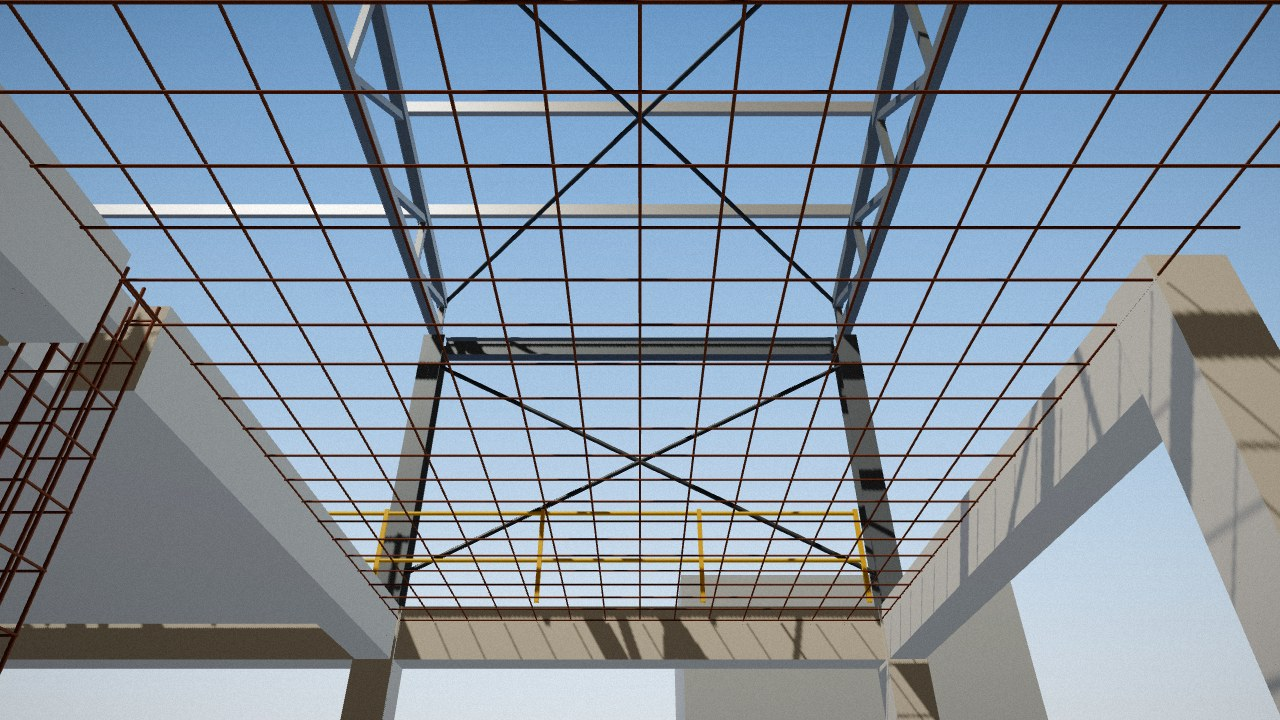
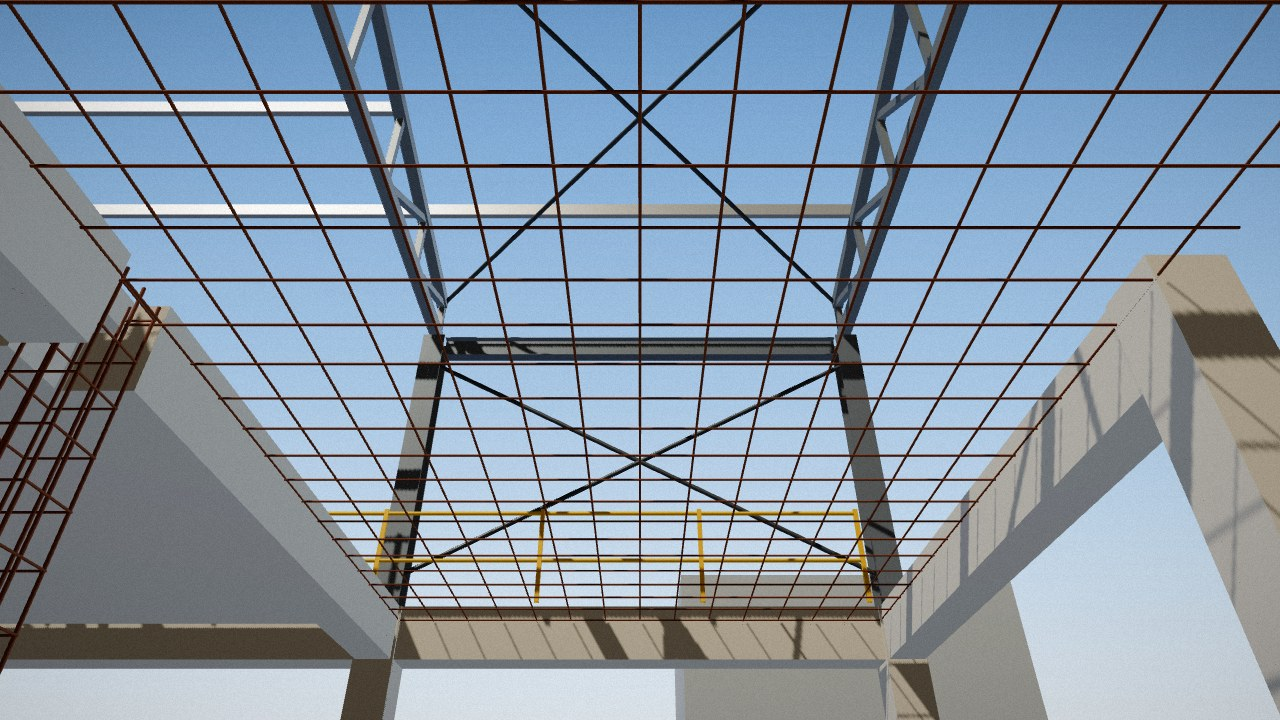
fix: Gemini check review - every planted defect gets a mark, fairer marks, railing severity (#103)
- Virtual demo: three planted defects were never numbered for Gemini. The QR stands sit on grid lines, so a
  purlin in line with the stand hid behind a slab-mat bar (about 4 px wide in the ID buffer) and Truss T3
  vertical 7 fell under the visibility threshold. Swapped for members the camera sees: Truss T3 diagonal 6 and
  Purlin P4 B-C at P3, Purlin P6 C-D at P4. Measured in the check's ID buffer: all 10 planted defects are
  marked at P1-P4 at 1180x820, 1440x900, 820x1180 and 390x844.
- Marks: element types take turns within a priority tier, each type's elements by size weighted towards the
  centre of the frame, so thin members and guardrails get checked in views full of big beams. Railings rank
  with structure; slabs and footings move after it.
- Scorecard: a shifted column counts as found when Gemini flags its moved rebar cage.
- Severity: a missing or misplaced guardrail (IfcRailing) is high, a fall hazard.
- Prompt: the QR sheet and its stand are not elements to check or unexpected objects.
- Sample photos re-rendered for the new defect list.

diff --git a/web/src/check/marks.ts b/web/src/check/marks.ts
@@ -4,15 +4,32 @@ import type { VisibleElement } from '../scene/elements'
 
 export const MAX_MARKS = 25
 
-const STRUCTURE = new Set(['IfcColumn', 'IfcBeam', 'IfcSlab', 'IfcFooting', 'IfcMember', 'IfcPile', 'IfcPlate', 'IfcWall', 'IfcWallStandardCase'])
+// Guardrails sit with structure: a missing one is a fall hazard.
+const STRUCTURE = new Set(['IfcColumn', 'IfcBeam', 'IfcMember', 'IfcPile', 'IfcPlate', 'IfcWall', 'IfcWallStandardCase', 'IfcRailing'])
+// Slabs and footings are big flat surfaces (a flush pad, a soffit) that rarely show a deviation in a photo: after structure.
 const OPENINGS_SERVICES = new Set(['IfcDoor', 'IfcWindow', 'IfcPipeSegment', 'IfcPipeFitting', 'IfcDuctSegment', 'IfcDuctFitting',
-  'IfcFlowSegment', 'IfcFlowFitting', 'IfcCableCarrierSegment', 'IfcOpeningElement'])
+  'IfcFlowSegment', 'IfcFlowFitting', 'IfcCableCarrierSegment', 'IfcOpeningElement', 'IfcSlab', 'IfcFooting'])
 
-/** 0 structure, 1 openings and services, 2 everything else. */
+/** 0 structure and guardrails, 1 openings, services, slabs and footings, 2 everything else. */
 export function classPriority(ifcClass: string): number {
   if (STRUCTURE.has(ifcClass)) return 0
   if (OPENINGS_SERVICES.has(ifcClass)) return 1
   return 2
+}
+
+/**
+ * How much an element counts for a mark: its size on screen, weighted towards the middle of the frame, where the
+ * person aimed. An element at the centre counts about 1.7 times its size, one in a corner about 0.1 times.
+ */
+export function markWeight(v: Pick<VisibleElement, 'pixels' | 'box'>): number {
+  const [y0, x0, y1, x1] = v.box
+  const off = Math.hypot((x0 + x1) / 2 - 500, (y0 + y1) / 2 - 500) / 707 // 0 at the centre, 1 in a corner
+  return v.pixels * (0.3 + Math.max(0, 1 - off)) ** 2
+}
+
+/** Element type for taking turns: class plus predefined type, so truss members, purlins and braces are separate. */
+function typeKey(el: Element): string {
+  return `${el.ifc_class}|${String(el.props?.PredefinedType ?? '')}`
 }
 
 function mm(v: unknown): number | null {
@@ -58,7 +75,11 @@ export function keyDims(el: Element): string {
   return parts.join(', ').slice(0, 80)
 }
 
-/** Visible elements -> numbered marks: known elements only, one per GUID, by class priority then size. */
+/**
+ * Visible elements -> numbered marks: known elements only, one per GUID. By class priority, and within a priority
+ * the element types take turns, each type's elements in order of markWeight (size, towards the centre of the frame),
+ * so thin members and guardrails where the person aimed get checked in a view full of big beams.
+ */
 export function selectMarks(visible: readonly VisibleElement[], indexToGuid: readonly string[], elements: ReadonlyMap<string, Element>,
   max = MAX_MARKS): MarkedElement[] {
   const best = new Map<string, VisibleElement>()
@@ -68,11 +89,24 @@ export function selectMarks(visible: readonly VisibleElement[], indexToGuid: rea
     const prev = best.get(guid)
     if (!prev || v.pixels > prev.pixels) best.set(guid, v)
   }
-  return [...best.entries()]
-    .map(([guid, v]) => ({ guid, v, el: elements.get(guid)! }))
-    .sort((a, b) => classPriority(a.el.ifc_class) - classPriority(b.el.ifc_class) || b.v.pixels - a.v.pixels)
-    .slice(0, max)
-    .map(({ guid, v, el }, i) => ({ mark: i + 1, guid, ifc_class: el.ifc_class, name: el.name, box: v.box, key_dims: keyDims(el) }))
+  const tiers = new Map<number, Map<string, { guid: string; v: VisibleElement; el: Element }[]>>()
+  for (const [guid, v] of best) {
+    const el = elements.get(guid)!
+    const tier = tiers.get(classPriority(el.ifc_class)) ?? new Map()
+    tiers.set(classPriority(el.ifc_class), tier)
+    const group = tier.get(typeKey(el)) ?? []
+    tier.set(typeKey(el), group)
+    group.push({ guid, v, el })
+  }
+  const picked: { guid: string; v: VisibleElement; el: Element }[] = []
+  for (const p of [...tiers.keys()].sort((a, b) => a - b)) {
+    const groups = [...tiers.get(p)!.values()].map((g) => g.sort((a, b) => markWeight(b.v) - markWeight(a.v)))
+    groups.sort((a, b) => markWeight(b[0].v) - markWeight(a[0].v)) // the type with the weightiest element starts each round
+    for (let round = 0; picked.length < max && groups.some((g) => g.length > round); round++) {
+      for (const g of groups) if (round < g.length && picked.length < max) picked.push(g[round])
+    }
+  }
+  return picked.map(({ guid, v, el }, i) => ({ mark: i + 1, guid, ifc_class: el.ifc_class, name: el.name, box: v.box, key_dims: keyDims(el) }))
 }
 
 /** Each mark's centre as a fraction of the frame (0..1), from the ID-buffer anchors (a pixel of the element itself). */

diff --git a/web/src/check/marks.test.ts b/web/src/check/marks.test.ts
@@ -1,7 +1,7 @@
 import { describe, expect, it } from 'vitest'
 import type { Element } from '../api/types'
 import type { VisibleElement } from '../scene/elements'
-import { classPriority, keyDims, markCentres, MAX_MARKS, selectMarks } from './marks'
+import { classPriority, keyDims, markCentres, markWeight, MAX_MARKS, selectMarks } from './marks'
 
 function el(guid: string, ifc_class: string, props: Record<string, unknown> = {}, bbox: Element['bbox_m'] = [[0, 0, 0], [1, 0.1, 2]]): Element {
   return { guid, ifc_class, name: `${ifc_class} ${guid}`, storey: 'L1', bbox_m: bbox, load_bearing: null, props }
@@ -11,8 +11,10 @@ function vis(index: number, pixels: number, cx = 10, cy = 20, anchor = { x: cx, 
 }
 
 describe('marks', () => {
-  it('ranks structure, then openings and services, then the rest', () => {
+  it('ranks structure and guardrails, then openings, services, slabs and footings, then the rest', () => {
     expect(classPriority('IfcColumn')).toBe(0)
+    expect(classPriority('IfcRailing')).toBe(0)
+    expect(classPriority('IfcFooting')).toBe(1)
     expect(classPriority('IfcWall')).toBe(0)
     expect(classPriority('IfcPipeSegment')).toBe(1)
     expect(classPriority('IfcFurniture')).toBe(2)
@@ -31,6 +33,26 @@ describe('marks', () => {
     const marks = selectMarks([vis(0, 900), vis(1, 50), vis(2, 10), vis(3, 300), vis(4, 999), vis(5, 400)], indexToGuid, elements)
     expect(marks.map((m) => [m.mark, m.guid])).toEqual([[1, 'w'], [2, 's'], [3, 'd'], [4, 'f']])
     expect(marks[0].name).toBe('IfcWall w')
+  })
+
+  it('lets element types take turns, so thin members and guardrails get marks in a view full of big beams', () => {
+    const elements = new Map<string, Element>([
+      ...Array.from({ length: 10 }, (_, i) => [`b${i}`, el(`b${i}`, 'IfcBeam')] as const),
+      ['m1', el('m1', 'IfcMember', { PredefinedType: 'PURLIN' })], ['m2', el('m2', 'IfcMember', { PredefinedType: 'PURLIN' })],
+      ['r', el('r', 'IfcRailing')], ['f', el('f', 'IfcFooting')],
+    ])
+    const guids = [...elements.keys()]
+    const visible = guids.map((g, i) => vis(i, g.startsWith('b') ? 1000 - i : g === 'r' ? 30 : g === 'f' ? 5000 : 60 - i))
+    const marks = selectMarks(visible, guids, elements, 5)
+    expect(marks.map((m) => m.guid)).toEqual(['b0', 'm1', 'r', 'b1', 'm2']) // the big footing waits behind structure
+  })
+
+  it('prefers elements where the person aimed: the middle of the frame beats a bigger one in a corner', () => {
+    const centre = { ...vis(0, 100), box: [450, 450, 550, 550] as [number, number, number, number] }
+    const corner = { ...vis(1, 150), box: [0, 0, 60, 60] as [number, number, number, number] }
+    expect(markWeight(centre)).toBeGreaterThan(markWeight(corner))
+    const elements = new Map([['a', el('a', 'IfcMember')], ['b', el('b', 'IfcMember')]])
+    expect(selectMarks([centre, corner], ['a', 'b'], elements, 1).map((m) => m.guid)).toEqual(['a'])
   })
 
   it('caps at 25 marks', () => {

diff --git a/web/src/sim/asBuilt.ts b/web/src/sim/asBuilt.ts
@@ -17,6 +17,8 @@ export type Deviation =
  * Realistic site defects, each big enough for a camera to resolve from its QR spot (thin bracing far away is not):
  * an uncast column, setting-out errors, the open bay's beams not cast, steel not erected, a missing guardrail.
  * Each spot opens with two or three of them in view (asBuilt.test.ts checks the framing).
+ * The stands sit on grid lines, so a purlin or truss member in line with the stand hides behind a slab-mat bar:
+ * choose members off that line (measured in the check's ID buffer: every one here gets a numbered mark).
  */
 export const SITE_AS_BUILT: readonly Deviation[] = [
   { element: 'RC column C2', kind: 'missing', note: 'not cast yet: only its rebar cage stands', featuredAt: 'P1' },
@@ -24,11 +26,11 @@ export const SITE_AS_BUILT: readonly Deviation[] = [
   { element: 'RC column C1', kind: 'shifted', offsetM: [0, 0.6, 0], alsoMoves: ['Column cage C1'], featuredAt: 'P2' },
   { element: 'Beam C2-D2', kind: 'missing', note: 'not cast yet: the open bay is still to pour', featuredAt: 'P2' },
   { element: 'Beam D1-D2', kind: 'missing', note: 'not cast yet: the open bay is still to pour', featuredAt: 'P2' },
-  { element: 'Truss T3 vertical 7', kind: 'missing', featuredAt: 'P3' },
-  { element: 'Purlin P6 B-C', kind: 'missing', featuredAt: 'P3' },
+  { element: 'Truss T3 diagonal 6', kind: 'missing', featuredAt: 'P3' },
+  { element: 'Purlin P4 B-C', kind: 'missing', featuredAt: 'P3' },
   { element: 'Edge beam B3-C3', kind: 'missing', note: 'not erected yet', featuredAt: 'P3' },
   { element: 'Edge protection east', kind: 'missing', note: 'missing (a fall hazard at level 1)', featuredAt: 'P4' },
-  { element: 'Purlin P4 C-D', kind: 'missing', featuredAt: 'P4' },
+  { element: 'Purlin P6 C-D', kind: 'missing', featuredAt: 'P4' },
 ]
 
 /** Compass word for a plan offset (IFC x east, y north, z up). */

diff --git a/web/src/sim/score.ts b/web/src/sim/score.ts
@@ -16,12 +16,16 @@ export type Score = {
   outOfView: Deviation[]
 }
 
+/** The elements a planted defect changed: the element, plus what moved with it (a shifted column's cage). */
+const touched = (d: Deviation): string[] => [d.element, ...(d.kind === 'shifted' ? d.alsoMoves ?? [] : [])]
+
 export function scoreCheck(findings: readonly Finding[], planted: readonly Deviation[]): Score {
   const byName = new Map(findings.map((f) => [f.name, f]))
-  const plantedNames = new Set(planted.map((d) => d.element))
+  const plantedNames = new Set(planted.flatMap(touched))
   const inView = planted.filter((d) => byName.has(d.element)).map((d) => {
     const finding = byName.get(d.element)!
-    return { planted: d, finding, found: DEVIATIONS.has(finding.status) }
+    const flagged = touched(d).some((n) => DEVIATIONS.has(byName.get(n)?.status ?? 'present_ok'))
+    return { planted: d, finding, found: flagged }
   })
   return {
     inView,

diff --git a/web/src/sim/score.test.ts b/web/src/sim/score.test.ts
@@ -26,3 +26,13 @@ describe('scoreCheck', () => {
     expect(scoreLine(scoreCheck([f('C', 'different_from_design')], planted))).toBe('Gemini found 1 of 1 planted defect in this view · no false alarms')
   })
 })
+
+
+describe('scoreCheck with elements that moved together', () => {
+  it('counts a flagged cage of a shifted column towards that defect, not as a false alarm', () => {
+    const moved: Deviation[] = [{ element: 'RC column B2', kind: 'shifted', offsetM: [-0.6, 0, 0], alsoMoves: ['Column cage B2'], featuredAt: 'P1' }]
+    const s = scoreCheck([f('RC column B2', 'present_ok'), f('Column cage B2', 'misplaced')], moved)
+    expect(s.inView[0].found).toBe(true)
+    expect(s.falseAlarms).toEqual([])
+  })
+})

diff --git a/server/app/gemini_client.py b/server/app/gemini_client.py
@@ -228,7 +228,7 @@ def _ask_schema(allowed_fields: list[str]) -> dict:
 CHECK_SYSTEM = """\
 You compare a construction site photo with the design model rendered from the same viewpoint.
 IMAGE 1 is the photo of what is built. IMAGE 2 is the design render; numbered marks sit at the centre of each listed element. Its colours show element types (columns, beams, members, rebar), not real materials: compare each element's shape and position, and look closely at each mark before answering present_ok.
-A printed QR code in the photo anchors the design model to the site; distance_m in the task is the camera's distance from it in metres. The QR code is not an element to check.
+A printed QR code anchors the design model to the site; distance_m in the task is the camera's distance from it in metres. The code may or may not be in the photo. The QR code sheet and its stand are not elements to check and are not unexpected objects.
 For each numbered element, judge only what the photo shows:
 - present_ok: present and matching the design
 - missing: should be visible but is not there, or only part of it is built (for example a concrete column where only its rebar cage stands, or a gap where a brace, a member or a guardrail should be)

diff --git a/server/app/severity.py b/server/app/severity.py
@@ -11,6 +11,7 @@ STRUCTURAL_CLASSES = {
     "IfcReinforcingBar", "IfcReinforcingMesh", "IfcTendon",  # reinforcement: high severity, but not first for marks
 }
 WALL_CLASSES = {"IfcWall", "IfcWallStandardCase"}  # structural only when load_bearing is True
+SAFETY_CLASSES = {"IfcRailing"}  # a missing or wrong guardrail is a fall hazard: as serious as structure
 OPENINGS_SERVICES = {
     "IfcDoor", "IfcWindow", "IfcPipeSegment", "IfcPipeFitting", "IfcDuctSegment", "IfcDuctFitting",
     "IfcFlowSegment", "IfcFlowFitting", "IfcCableCarrierSegment", "IfcOpeningElement",
@@ -21,7 +22,7 @@ DEVIATIONS = {"missing", "misplaced", "different_from_design"}
 def severity_for(element: Element, status: Status) -> Severity | None:
     if status not in DEVIATIONS:
         return None
-    if element.ifc_class in STRUCTURAL_CLASSES or (element.ifc_class in WALL_CLASSES and element.load_bearing is True):
+    if element.ifc_class in STRUCTURAL_CLASSES | SAFETY_CLASSES or (element.ifc_class in WALL_CLASSES and element.load_bearing is True):
         return "high"
     if element.ifc_class in OPENINGS_SERVICES:
         return "medium"

diff --git a/server/tests/test_severity.py b/server/tests/test_severity.py
@@ -20,6 +20,8 @@ def el(ifc_class: str, load_bearing: bool | None = None) -> Element:
     (el("IfcReinforcingBar"), "high"),
     (el("IfcReinforcingMesh"), "high"),
     (el("IfcTendon"), "high"),
+    # A missing guardrail is a fall hazard: as serious as structure.
+    (el("IfcRailing"), "high"),
     (el("IfcWall", load_bearing=False), "low"),
     (el("IfcWall", load_bearing=None), "low"),
     (el("IfcDoor"), "medium"),
